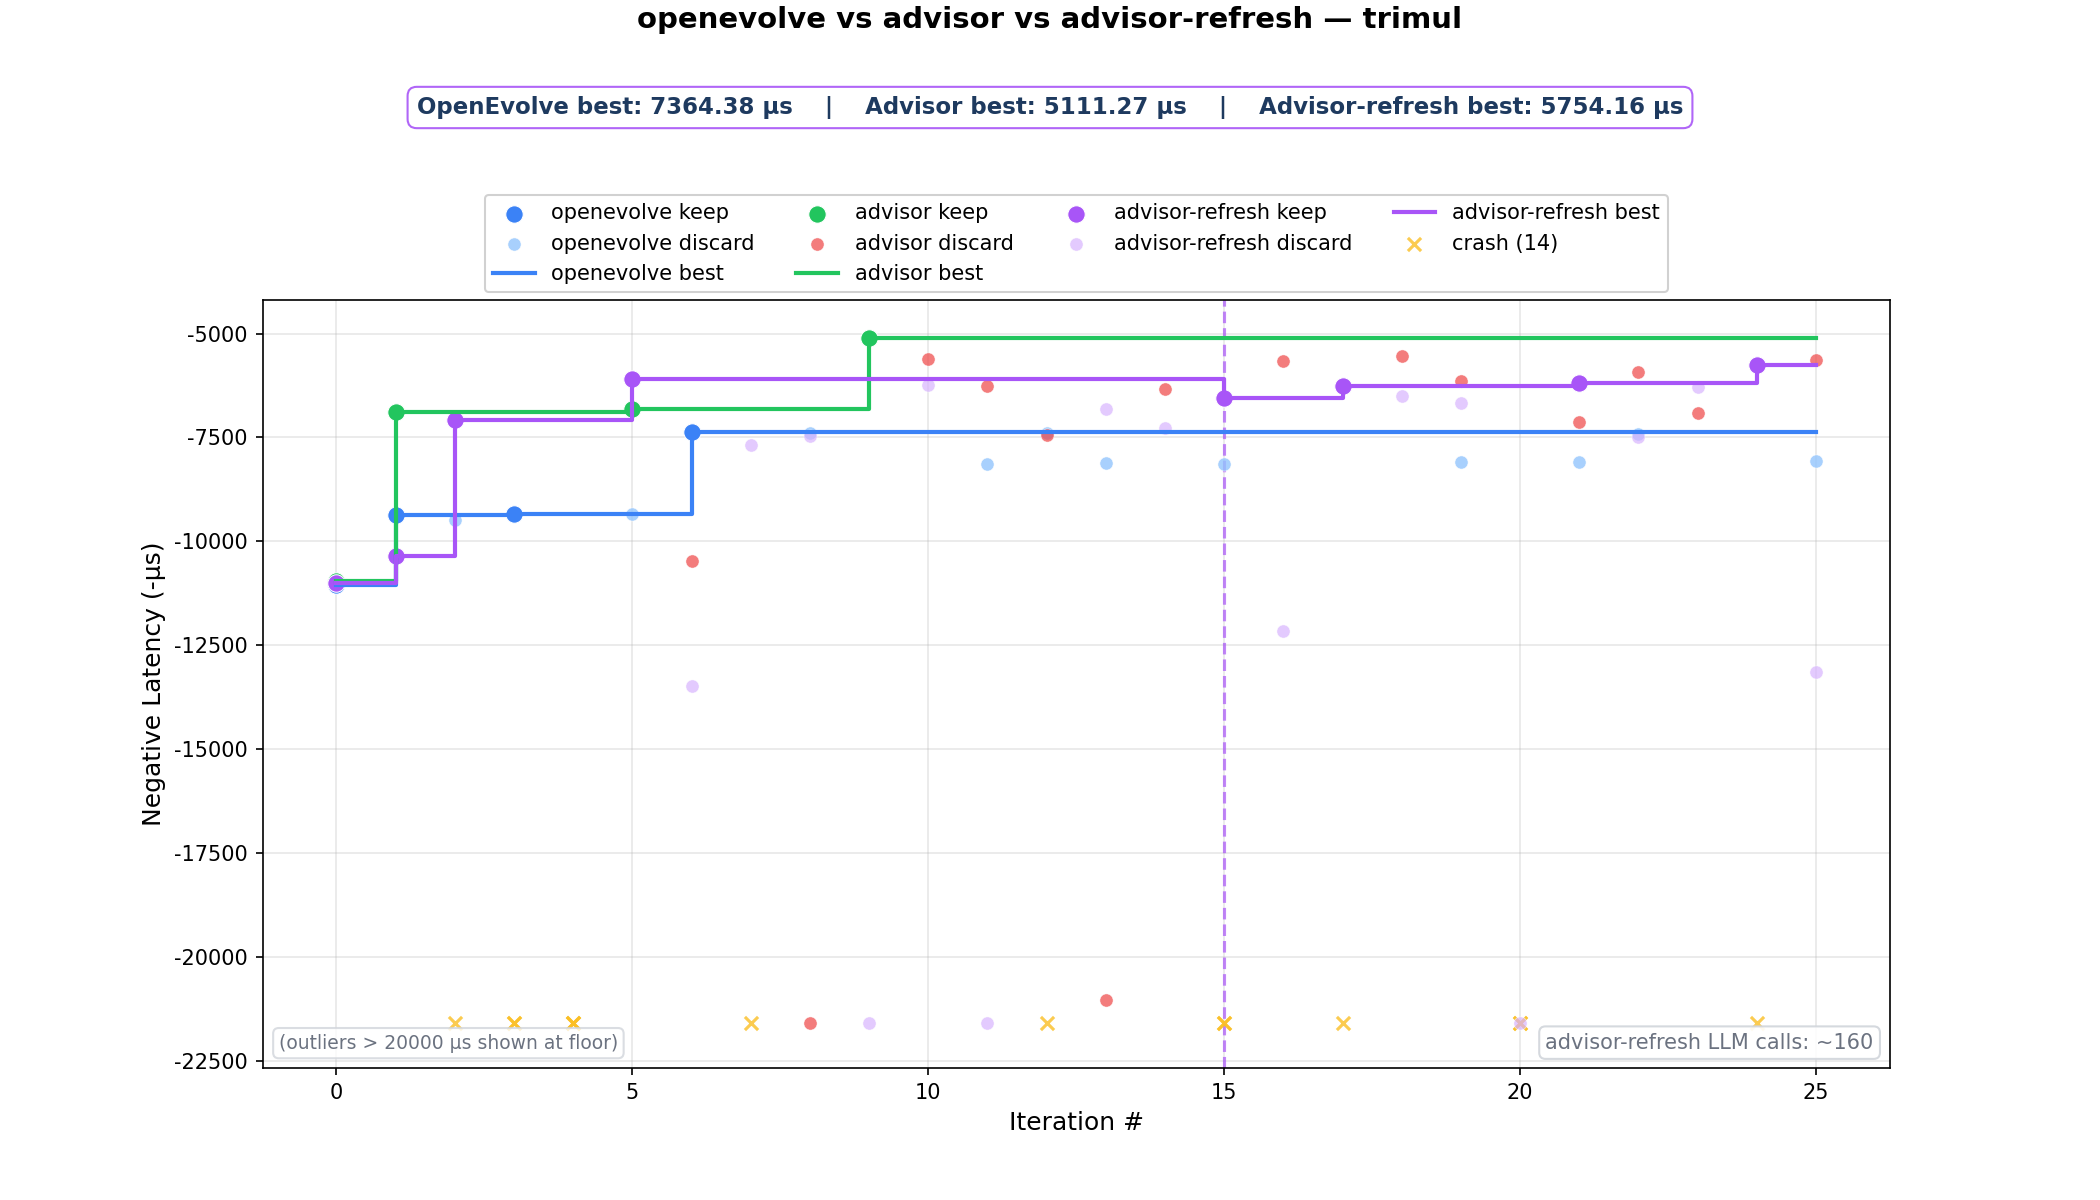
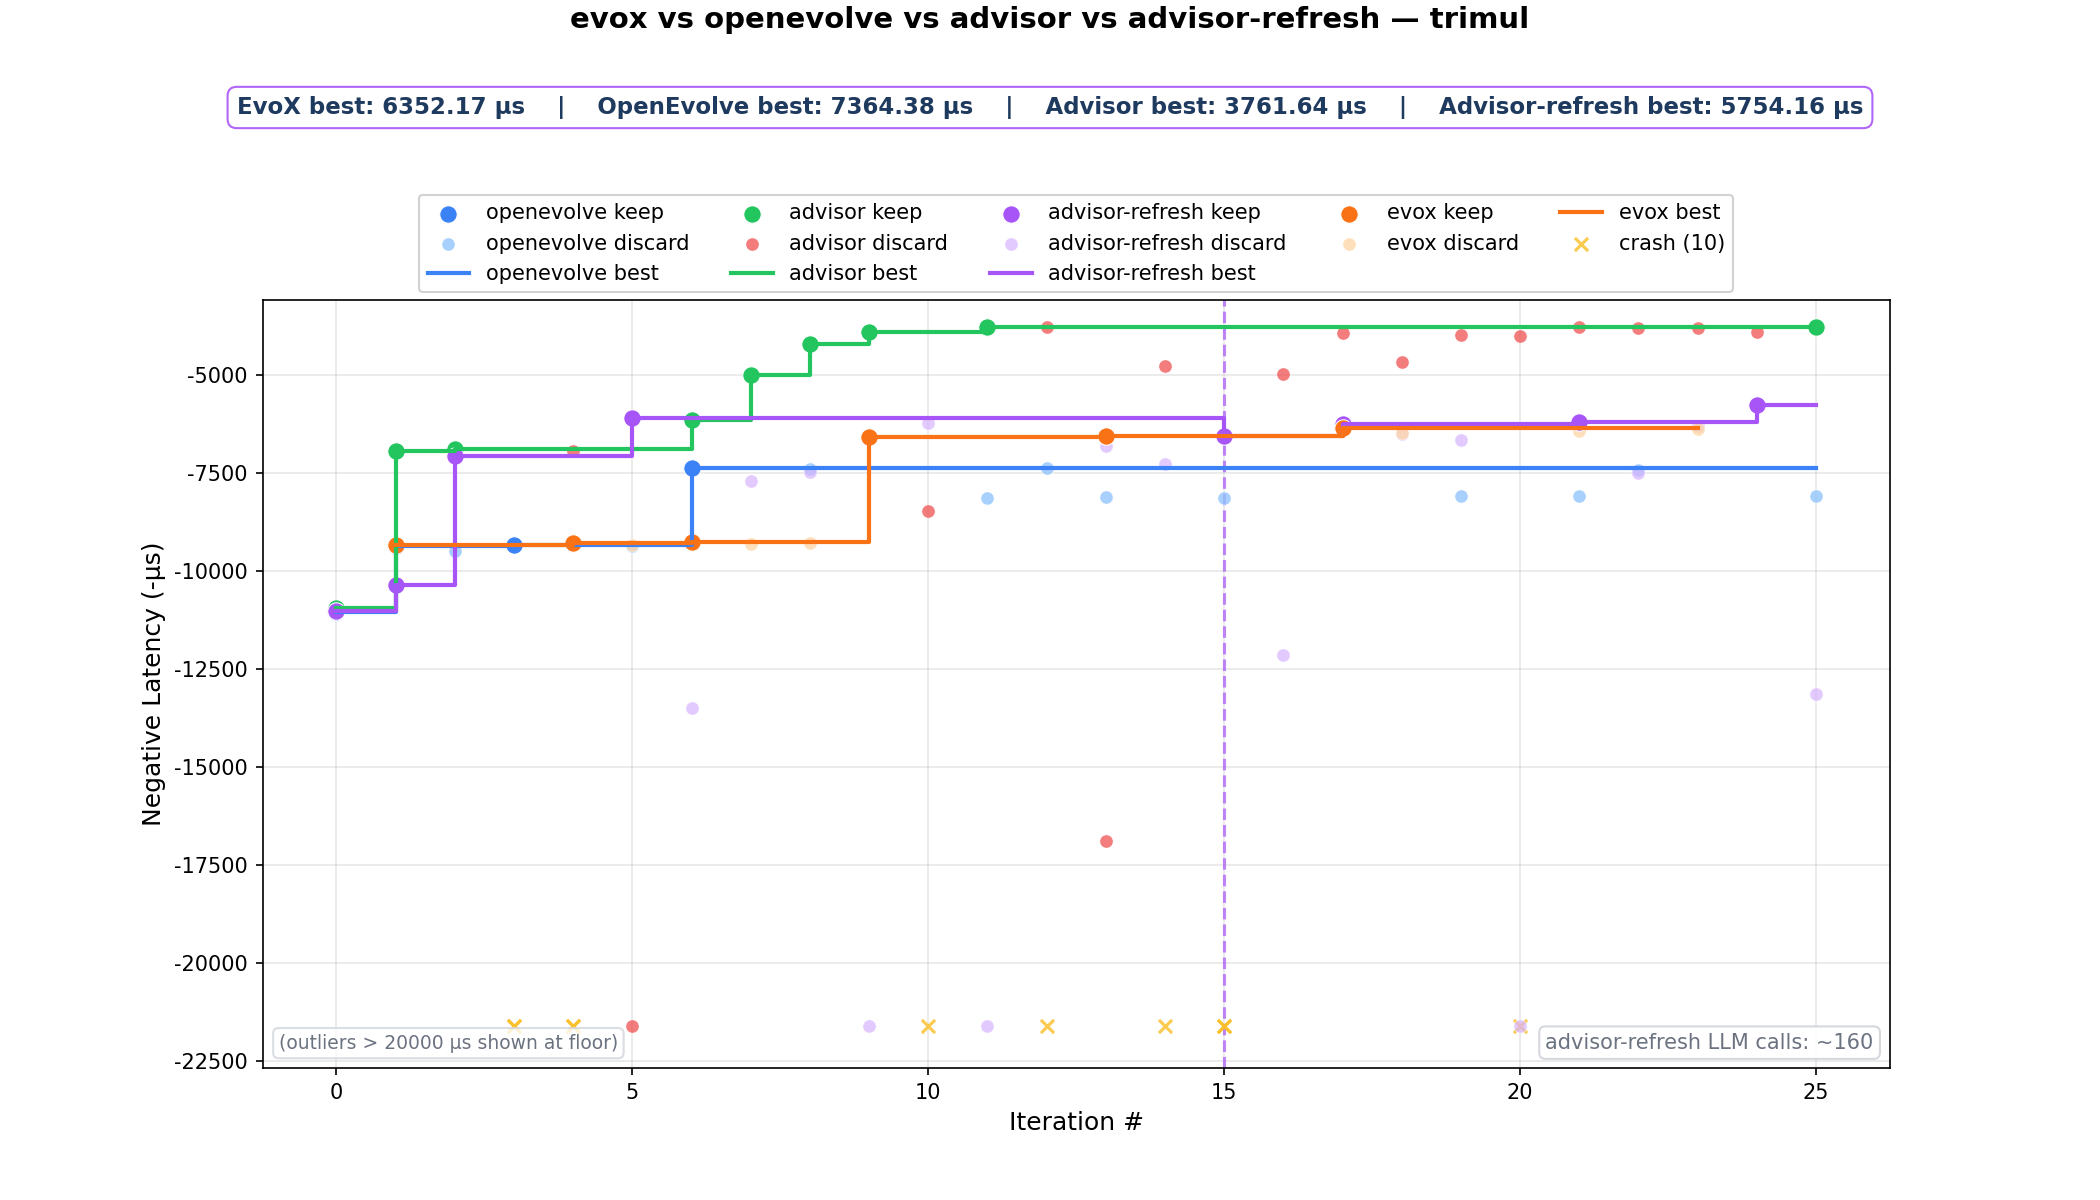
updated plot

diff --git a/plot_comparison.py b/plot_comparison.py
@@ -1,5 +1,5 @@
 """
-Compare openevolve vs advisor (no refresh) vs advisor-refresh runs.
+Compare openevolve vs advisor (no refresh) vs advisor-refresh vs evox runs.
 Marks epoch refresh boundary with a vertical line.
 """
 import matplotlib
@@ -9,7 +9,7 @@ import matplotlib.ticker as ticker
 import csv
 
 # ── Advisor (no refresh) data ─────────────────────────────────────────────────
-ADV_TSV = "/workspace/trimul-advisor/trimul/runs/20260611_232826_trimul_starting_point/results.tsv"
+ADV_TSV = "/workspace/trimul-advisor/trimul/runs/20260609_012417_trimul_starting_point/results.tsv"
 adv_iters, adv_times, adv_kinds = [], [], []
 with open(ADV_TSV) as f:
     reader = csv.DictReader(f, delimiter="\t")
@@ -63,6 +63,29 @@ for it, t, k in epoch1_rows + epoch2_rows:
     refresh_times.append(t)
     refresh_kinds.append(k)
 
+# ── EvoX data ────────────────────────────────────────────────────────────────
+# From trimul-evox/plot_run.py — skydiscover run1, 25 iterations
+evox_raw = [
+    (1,  9344.256,  "keep"),
+    (3,  9356.484,  "discard"),
+    (4,  9291.110,  "keep"),
+    (5,  9329.417,  "discard"),
+    (6,  9266.186,  "keep"),
+    (7,  9302.989,  "discard"),
+    (8,  9281.608,  "discard"),
+    (9,  6572.176,  "keep"),
+    (10, 0.0,       "fail"),
+    (13, 6562.477,  "keep"),
+    (14, 0.0,       "fail"),
+    (17, 6352.167,  "keep"),
+    (18, 6480.952,  "discard"),
+    (21, 6428.371,  "discard"),
+    (23, 6377.658,  "discard"),
+]
+evox_iters = [r[0] for r in evox_raw]
+evox_times = [r[1] for r in evox_raw]
+evox_kinds = ["crash" if r[2] == "fail" else r[2] for r in evox_raw]
+
 # ── OpenEvolve data ───────────────────────────────────────────────────────────
 # Extracted from trimul_kernel/openevolve_runs/run1/logs/*.log
 # Iterations absent from this list had no valid geomean score (correctness failures)
@@ -110,17 +133,19 @@ def best_step(iters, times, kinds):
             by.append(best)
     return bx, by
 
-adv_bx, adv_by = best_step(adv_iters,     adv_times,     adv_kinds)
-ref_bx, ref_by = best_step(refresh_iters, refresh_times, refresh_kinds)
-oe_bx,  oe_by  = best_step(oe_iters,      oe_times,      oe_kinds)
+adv_bx,  adv_by  = best_step(adv_iters,     adv_times,     adv_kinds)
+ref_bx,  ref_by  = best_step(refresh_iters, refresh_times, refresh_kinds)
+oe_bx,   oe_by   = best_step(oe_iters,      oe_times,      oe_kinds)
+evox_bx, evox_by = best_step(evox_iters,    evox_times,    evox_kinds)
 
-adv_best = min(t for t, k in zip(adv_times, adv_kinds) if k == "keep")
-ref_best = min(t for t, k in zip(refresh_times, refresh_kinds) if k == "keep" and t > 0)
-oe_best  = min(oe_by) if oe_by else float("inf")
+adv_best  = min(t for t, k in zip(adv_times, adv_kinds) if k == "keep")
+ref_best  = min(t for t, k in zip(refresh_times, refresh_kinds) if k == "keep" and t > 0)
+oe_best   = min(oe_by) if oe_by else float("inf")
+evox_best = min(evox_by) if evox_by else float("inf")
 
 # ── Y-axis (negative latency, clip outliers) ──────────────────────────────────
 CLIP_US = 20000.0
-all_valid = [t for t in adv_times + refresh_times + oe_times if 0 < t <= CLIP_US]
+all_valid = [t for t in adv_times + refresh_times + oe_times + evox_times if 0 < t <= CLIP_US]
 y_hi = -(min(all_valid) * 0.82)
 y_lo = -(CLIP_US * 1.08)
 
@@ -174,8 +199,21 @@ if ref_dx:
 if ref_bx:
     ax.step(ref_bx, [-t for t in ref_by], where="post", color="#a855f7", linewidth=2, label="advisor-refresh best", zorder=6)
 
+# EvoX — orange
+evox_kx = [it for it, k in zip(evox_iters, evox_kinds) if k == "keep"]
+evox_ky = [ny(evox_times[i]) for i, k in enumerate(evox_kinds) if k == "keep"]
+evox_dx = [it for it, k in zip(evox_iters, evox_kinds) if k == "discard"]
+evox_dy = [ny(evox_times[i]) for i, k in enumerate(evox_kinds) if k == "discard"]
+evox_cx = [it for it, k in zip(evox_iters, evox_kinds) if k == "crash"]
+if evox_kx:
+    ax.scatter(evox_kx, evox_ky, c="#f97316", s=70, zorder=5, edgecolors="white", linewidths=0.5, label="evox keep")
+if evox_dx:
+    ax.scatter(evox_dx, evox_dy, c="#fed7aa", s=40, zorder=4, edgecolors="white", linewidths=0.3, alpha=0.8, label="evox discard")
+if evox_bx:
+    ax.step(evox_bx, [-t for t in evox_by], where="post", color="#f97316", linewidth=2, label="evox best", zorder=6)
+
 # Crashes (all series)
-all_cx = oe_cx + adv_cx + ref_cx
+all_cx = oe_cx + adv_cx + ref_cx + evox_cx
 if all_cx:
     ax.scatter(all_cx, [y_lo] * len(all_cx), c="#fbbf24", s=40, zorder=3,
                marker="x", linewidths=1.5, label=f"crash ({len(all_cx)})", alpha=0.8)
@@ -192,11 +230,12 @@ ax.set_ylabel("Negative Latency (-μs)", fontsize=12)
 ax.grid(True, alpha=0.3)
 
 # Legend above the plot
-ax.legend(loc="lower center", bbox_to_anchor=(0.5, 1.01), ncol=4,
+ax.legend(loc="lower center", bbox_to_anchor=(0.5, 1.01), ncol=5,
           framealpha=0.9, fontsize=10, borderaxespad=0)
 
 # Best-time records above the plot (figure-level text)
 fig.text(0.5, 0.92,
+         f"EvoX best: {evox_best:.2f} μs    |    "
          f"OpenEvolve best: {oe_best:.2f} μs    |    "
          f"Advisor best: {adv_best:.2f} μs    |    "
          f"Advisor-refresh best: {ref_best:.2f} μs",
@@ -204,7 +243,7 @@ fig.text(0.5, 0.92,
          bbox=dict(boxstyle="round,pad=0.4", facecolor="white", edgecolor="#a855f7", alpha=0.9))
 
 # Title
-fig.text(0.5, 0.995, "openevolve vs advisor vs advisor-refresh — trimul",
+fig.text(0.5, 0.995, "evox vs openevolve vs advisor vs advisor-refresh — trimul",
          ha="center", va="top", fontsize=14, fontweight="bold")
 
 # LLM call counter — bottom right (advisor-refresh only)